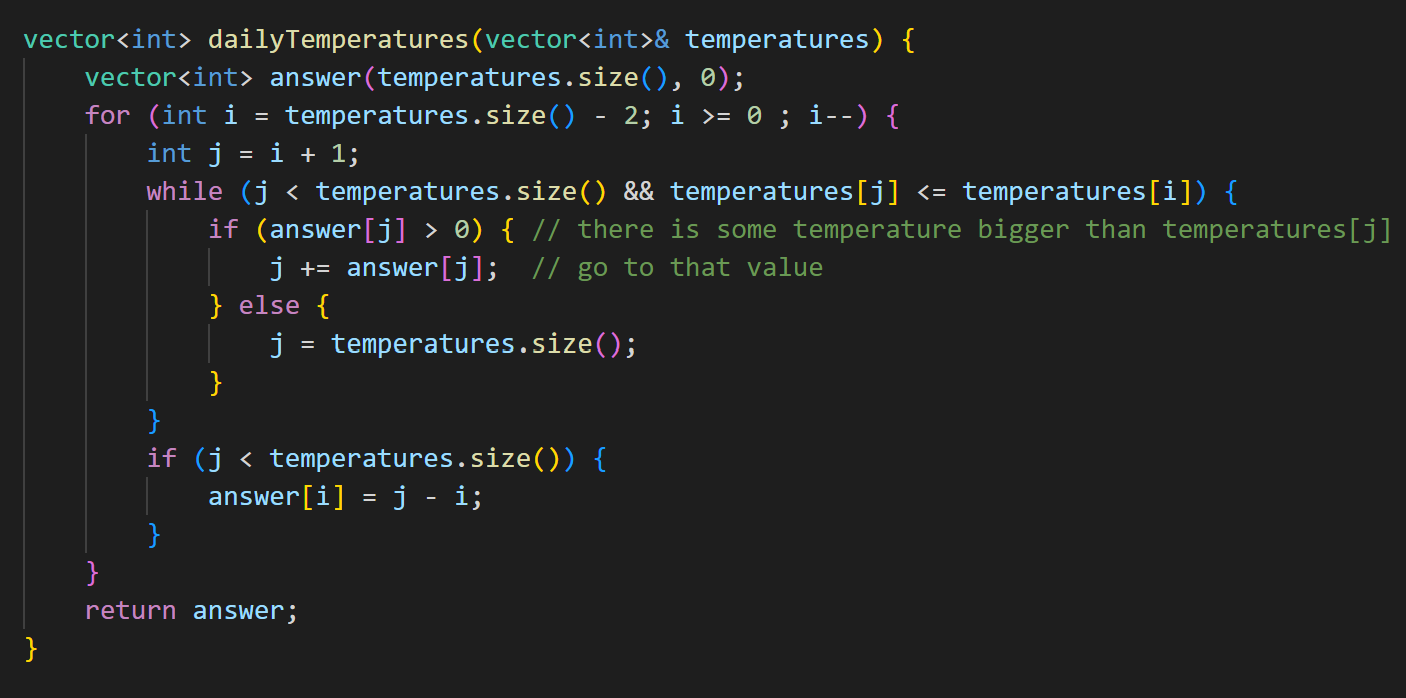
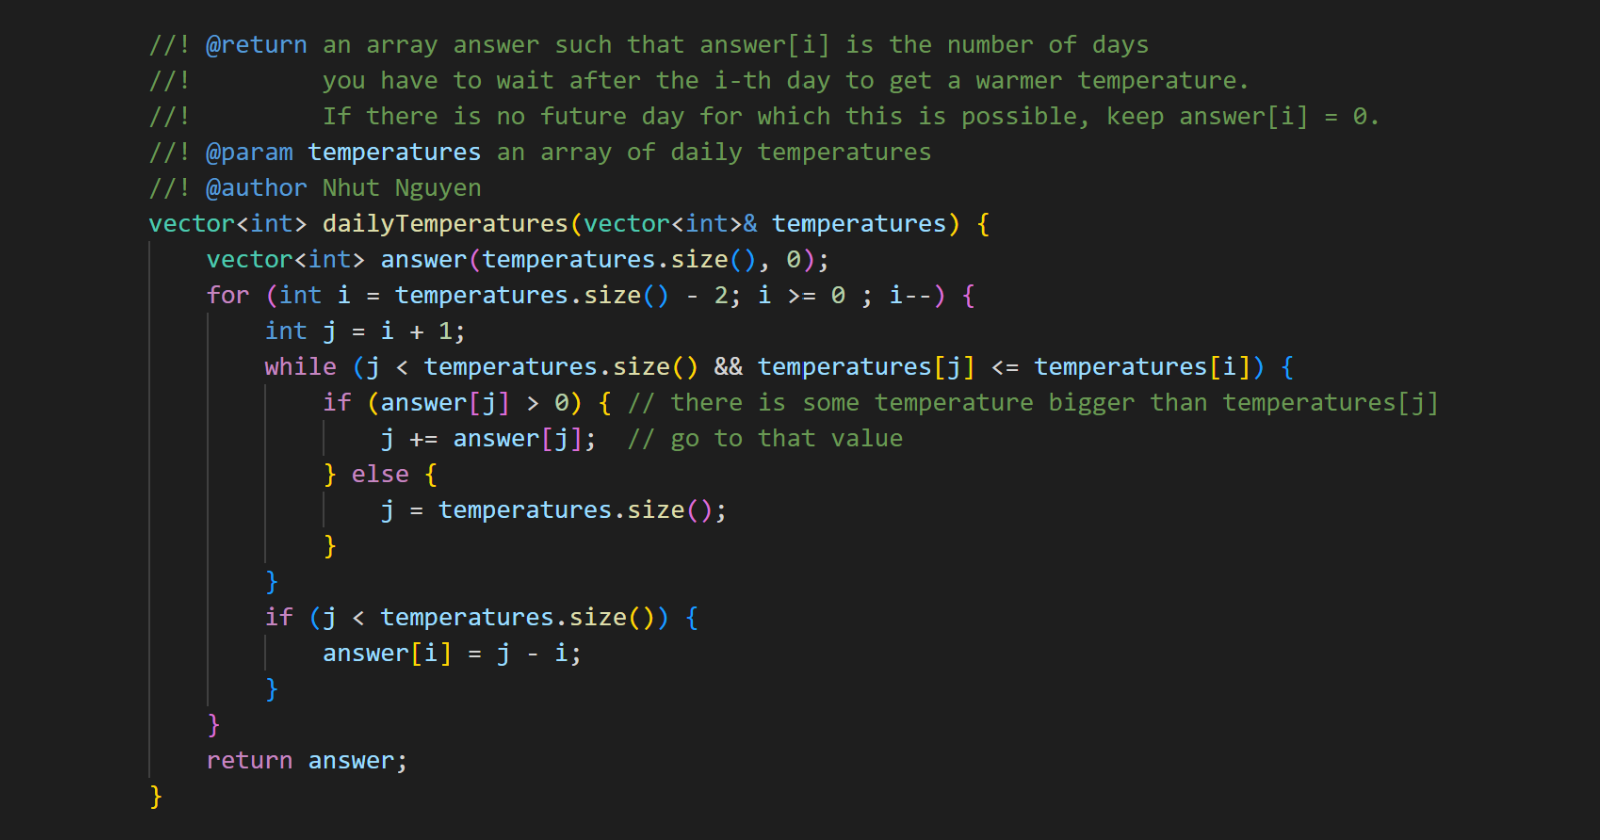
update screenshot

diff --git a/739. Daily Temperatures/739_Daily_Temperatures.cpp b/739. Daily Temperatures/739_Daily_Temperatures.cpp
@@ -2,6 +2,11 @@
 #include <iostream>
 using namespace std;
 
+//! @return an array answer such that answer[i] is the number of days
+//!         you have to wait after the i-th day to get a warmer temperature. 
+//!         If there is no future day for which this is possible, keep answer[i] = 0.
+//! @param temperatures an array of daily temperatures
+//! @author Nhut Nguyen
 vector<int> dailyTemperatures(vector<int>& temperatures) {
     vector<int> answer(temperatures.size(), 0);
     for (int i = temperatures.size() - 2; i >= 0 ; i--) {
